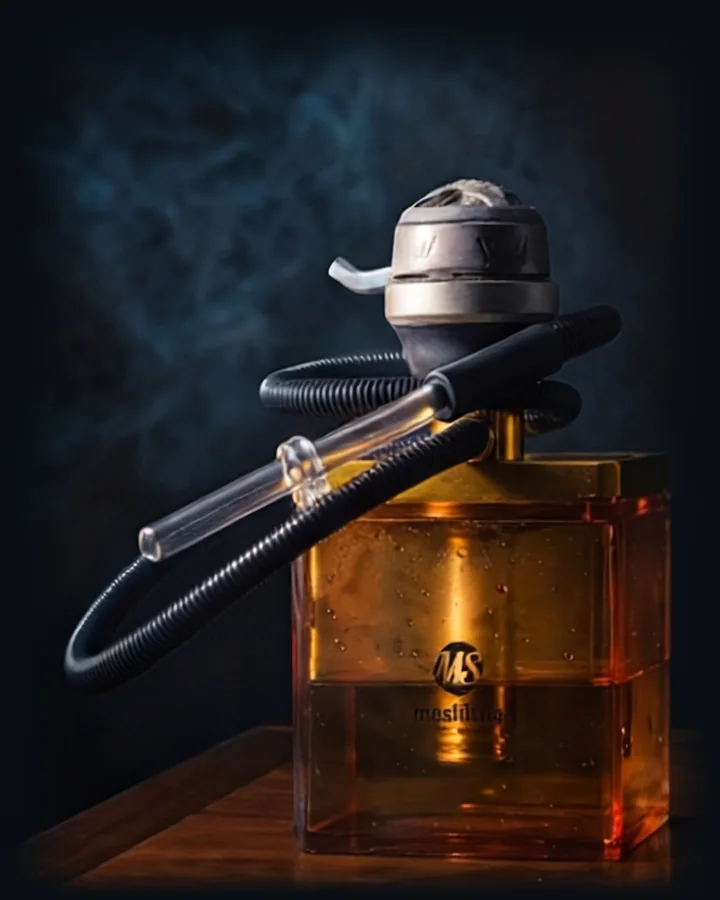
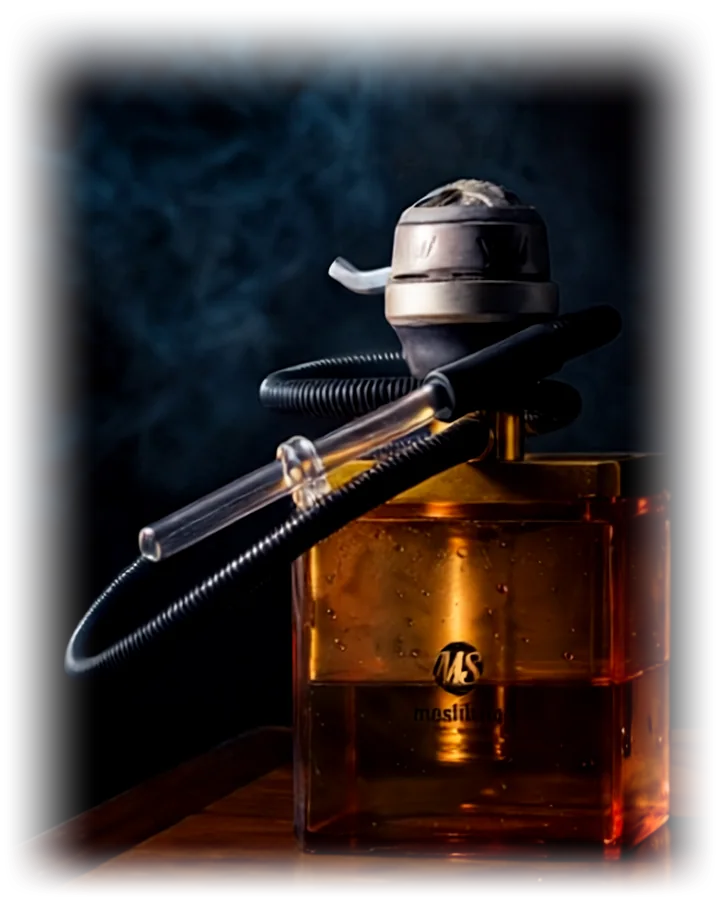
Shisha page: remove picture boxes, blend hookahs into the background
Claude-Session: https://claude.ai/code/session_01DEyqETpbM89WEQXKmL7KhX

diff --git a/shisha/index.html b/shisha/index.html
@@ -19,7 +19,7 @@
 <style>
 :root{--bg:#0E0C0B;--ink:#F1E9D8;--mut:#B9C9C8;--acc:#D6B46E;--line:rgba(255,255,255,.14);--ph:#091318}
 *{box-sizing:border-box;margin:0;padding:0}
-html{scroll-behavior:smooth}
+html{scroll-behavior:smooth;overflow-x:clip}
 body{position:relative;font-family:'Montserrat',sans-serif;background:var(--bg);color:var(--ink);-webkit-font-smoothing:antialiased}
 img{display:block;max-width:100%}
 a{color:inherit}a:focus-visible,button:focus-visible{outline:2px solid var(--acc);outline-offset:3px}
@@ -43,7 +43,6 @@ linear-gradient(180deg,#14110F 0%,#0E0C0B 45%,#0A0A0A 100%)}
 @keyframes wisp{0%{opacity:0;transform:translate3d(-4%,24%,0)}30%{opacity:.45}70%{opacity:.3}100%{opacity:0;transform:translate3d(5%,-18%,0)}}
 @media (max-width:760px){.smoke i:nth-child(3){display:none}}
 @media (prefers-reduced-motion:reduce){.smoke i,.ph::after{animation:none!important}.smoke i:nth-child(1){opacity:.25}.ph::after{opacity:0}}
-.ph{box-shadow:0 0 0 1px rgba(255,255,255,.07),0 40px 70px -40px rgba(0,0,0,.9)}
 .nav{display:flex;align-items:center;justify-content:space-between;gap:16px;padding:18px clamp(18px,4vw,44px);max-width:1180px;margin:0 auto}
 .brand{text-decoration:none;font-size:.78rem;letter-spacing:.24em;text-transform:uppercase;font-weight:600;color:#fff}
 .nav nav{display:flex;gap:clamp(14px,3vw,28px)}
@@ -53,8 +52,8 @@ linear-gradient(180deg,#14110F 0%,#0E0C0B 45%,#0A0A0A 100%)}
 h1{font-size:clamp(2.6rem,8vw,4.8rem);font-weight:600;line-height:1;color:#fff}
 .lede{margin-top:16px;color:var(--mut);font-size:.95rem;line-height:1.7;font-weight:300;max-width:500px}
 .intro{max-width:1180px;margin:0 auto;padding:clamp(20px,6vh,60px) clamp(20px,5vw,44px) 20px}
-.ph{background:var(--ph);overflow:hidden;border-radius:24px}
-.ph img{width:100%;height:100%;object-fit:cover;opacity:0;transition:opacity .9s ease}
+.ph{background:none;border-radius:0}
+.ph img{width:100%;height:100%;object-fit:cover;mix-blend-mode:screen;opacity:0;transition:opacity .9s ease}
 .ph img.ok{opacity:1}
 .rv{opacity:0;transform:translate3d(0,22px,0);transition:opacity .8s ease,transform .9s cubic-bezier(.22,1,.36,1)}
 .rv.in{opacity:1;transform:none}
@@ -89,11 +88,11 @@ h1{font-size:clamp(2.6rem,8vw,4.8rem);font-weight:600;line-height:1;color:#fff}
 <div class="nav"><a class="brand" href="/menu/">B-Heaven</a><nav><a href="/menu/">Menu</a><a href="/menu/#drinks">Drinks</a><a href="/shisha/" class="on" aria-current="page">Shisha</a></nav></div>
 <div class="intro"><span class="ey">B-Heaven by Barceló</span><h1>Shishas</h1><p class="lede">Rooftop shisha at Barceló Al Jaddaf — five hookahs, five ways to enjoy them.</p></div>
 <main class="cards">
-<article class="card"><div class="ph rv"><img src="/menu/img/shisha-1.webp" alt="Amber cube hookah" width="720" height="900" decoding="async"></div><div class="rv"><span class="no">01</span><div class="hd"><h2>Single shisha</h2><b>AED 65</b></div><p class="sub">Single flavours, with mint or without.</p><div class="shChips"><span>Double apple</span><span>Grape mint</span><span>Grape-berry</span><span>Grape</span><span>Lemon</span><span>Orange</span><span>Grapefruit</span><span>Fresh mist</span><span>Blueberry</span><span>Watermelon</span><span>Sweet melon</span><span>Pineapple</span><span>Gum</span><span>Bubble gum</span><span>Gum mastic</span><span>Strawberry</span><span>Mint</span><span>Coconut</span><span>Kiwi</span><span>Vanilla cherry</span><span>Peach</span><span>Mango</span><span>Gum cinnamon</span><span>Rose</span><span>Chocolate coffee</span><span>Energy drink</span><span>Banana</span></div></div></article>
-<article class="card"><div class="ph rv"><img src="/menu/img/shisha-2.webp" alt="Carbon fibre hookah" width="720" height="900" decoding="async"></div><div class="rv"><span class="no">02</span><div class="hd"><h2>Mix flavours</h2><b>AED 109</b></div><p class="sub">Blend of 2–3 flavours — make it your own.</p></div></article>
-<article class="card"><div class="ph rv"><img src="/menu/img/shisha-3.webp" alt="Hookah with wooden stem and lemon-mint base" width="720" height="900" decoding="async" loading="lazy"></div><div class="rv"><span class="no">03</span><div class="hd"><h2>Specials</h2><b>AED 139</b></div><p class="sub">Our signature blends.</p><ul class="lst"><li><strong>Mi Amor</strong><p>Crazy tropical mix of juicy pineapple, ripe banana, and refreshing mint</p></li><li><strong>Lady Killer</strong><p>Iced, minty tropical mango and sweet peach</p></li><li><strong>Love 66</strong><p>The golden recipe of all times in hookah with passion fruits, honeydew melon, watermelon, mint</p></li><li><strong>Marbella</strong><p>A delicious mix of cherry, caramel and chocolate</p></li><li><strong>Hawaii</strong><p>Juicy pineapple and sweet mango with mint</p></li><li><strong>Sky Fall</strong><p>Taste of sweet berries with refreshing lime</p></li><li><strong>Istanbul Night</strong><p>The mix of blueberries, raspberries, and currants</p></li></ul></div></article>
-<article class="card"><div class="ph rv"><img src="/menu/img/shisha-4.webp" alt="Silver hookah with blue crystal base" width="720" height="900" decoding="async" loading="lazy"></div><div class="rv"><span class="no">04</span><div class="hd"><h2>Nova cocktails · I</h2><b>AED 159</b></div><p class="sub">Cocktail-style blends, part one.</p><ul class="lst"><li><strong>Melon Honey</strong><p>Natural sweet melon taste with extra sweetness</p></li><li><strong>Tutti Frutti</strong><p>Mix of tropical fruits, topped with little bit of freshness</p></li><li><strong>Ice Baby</strong><p>Bright grapefruit meets wild berry sorbet, light, refreshing, and perfect for summer</p></li><li><strong>Strawberry Jam</strong><p>Strawberry jam with hint of berry flavour</p></li><li><strong>Lemon Shock</strong><p>Taste of ultra sour lemon</p></li></ul></div></article>
-<article class="card"><div class="ph rv"><img src="/menu/img/shisha-5.webp" alt="Black hookah with smoke" width="720" height="900" decoding="async" loading="lazy"></div><div class="rv"><span class="no">05</span><div class="hd"><h2>Nova cocktails · II</h2><b>AED 159</b></div><p class="sub">Cocktail-style blends, part two.</p><ul class="lst"><li><strong>Belgium Waffles</strong><p>Soft sponge cake with cinnamon, creamy soufflé and caramel topping</p></li><li><strong>Peach Killer</strong><p>A luxurious and full-bodied taste of sweet and delicate peach pulp</p></li><li><strong>Mango Tango</strong><p>Sweet mango with tropical passion fruit</p></li><li><strong>Pinkman</strong><p>A unique blend of pink grapefruit, strawberry, and raspberry — destined to be a favorite</p></li><li><strong>Cherry Garden</strong><p>Bold and tart natural cherries, sweet and sour, a flavor that easily becomes a favorite</p></li></ul></div></article>
+<article class="card"><div class="ph"><img src="/menu/img/shisha-1.webp" alt="Amber cube hookah" width="720" height="900" decoding="async"></div><div class="rv"><span class="no">01</span><div class="hd"><h2>Single shisha</h2><b>AED 65</b></div><p class="sub">Single flavours, with mint or without.</p><div class="shChips"><span>Double apple</span><span>Grape mint</span><span>Grape-berry</span><span>Grape</span><span>Lemon</span><span>Orange</span><span>Grapefruit</span><span>Fresh mist</span><span>Blueberry</span><span>Watermelon</span><span>Sweet melon</span><span>Pineapple</span><span>Gum</span><span>Bubble gum</span><span>Gum mastic</span><span>Strawberry</span><span>Mint</span><span>Coconut</span><span>Kiwi</span><span>Vanilla cherry</span><span>Peach</span><span>Mango</span><span>Gum cinnamon</span><span>Rose</span><span>Chocolate coffee</span><span>Energy drink</span><span>Banana</span></div></div></article>
+<article class="card"><div class="ph"><img src="/menu/img/shisha-2.webp" alt="Carbon fibre hookah" width="720" height="900" decoding="async"></div><div class="rv"><span class="no">02</span><div class="hd"><h2>Mix flavours</h2><b>AED 109</b></div><p class="sub">Blend of 2–3 flavours — make it your own.</p></div></article>
+<article class="card"><div class="ph"><img src="/menu/img/shisha-3.webp" alt="Hookah with wooden stem and lemon-mint base" width="720" height="900" decoding="async" loading="lazy"></div><div class="rv"><span class="no">03</span><div class="hd"><h2>Specials</h2><b>AED 139</b></div><p class="sub">Our signature blends.</p><ul class="lst"><li><strong>Mi Amor</strong><p>Crazy tropical mix of juicy pineapple, ripe banana, and refreshing mint</p></li><li><strong>Lady Killer</strong><p>Iced, minty tropical mango and sweet peach</p></li><li><strong>Love 66</strong><p>The golden recipe of all times in hookah with passion fruits, honeydew melon, watermelon, mint</p></li><li><strong>Marbella</strong><p>A delicious mix of cherry, caramel and chocolate</p></li><li><strong>Hawaii</strong><p>Juicy pineapple and sweet mango with mint</p></li><li><strong>Sky Fall</strong><p>Taste of sweet berries with refreshing lime</p></li><li><strong>Istanbul Night</strong><p>The mix of blueberries, raspberries, and currants</p></li></ul></div></article>
+<article class="card"><div class="ph"><img src="/menu/img/shisha-4.webp" alt="Silver hookah with blue crystal base" width="720" height="900" decoding="async" loading="lazy"></div><div class="rv"><span class="no">04</span><div class="hd"><h2>Nova cocktails · I</h2><b>AED 159</b></div><p class="sub">Cocktail-style blends, part one.</p><ul class="lst"><li><strong>Melon Honey</strong><p>Natural sweet melon taste with extra sweetness</p></li><li><strong>Tutti Frutti</strong><p>Mix of tropical fruits, topped with little bit of freshness</p></li><li><strong>Ice Baby</strong><p>Bright grapefruit meets wild berry sorbet, light, refreshing, and perfect for summer</p></li><li><strong>Strawberry Jam</strong><p>Strawberry jam with hint of berry flavour</p></li><li><strong>Lemon Shock</strong><p>Taste of ultra sour lemon</p></li></ul></div></article>
+<article class="card"><div class="ph"><img src="/menu/img/shisha-5.webp" alt="Black hookah with smoke" width="720" height="900" decoding="async" loading="lazy"></div><div class="rv"><span class="no">05</span><div class="hd"><h2>Nova cocktails · II</h2><b>AED 159</b></div><p class="sub">Cocktail-style blends, part two.</p><ul class="lst"><li><strong>Belgium Waffles</strong><p>Soft sponge cake with cinnamon, creamy soufflé and caramel topping</p></li><li><strong>Peach Killer</strong><p>A luxurious and full-bodied taste of sweet and delicate peach pulp</p></li><li><strong>Mango Tango</strong><p>Sweet mango with tropical passion fruit</p></li><li><strong>Pinkman</strong><p>A unique blend of pink grapefruit, strawberry, and raspberry — destined to be a favorite</p></li><li><strong>Cherry Garden</strong><p>Bold and tart natural cherries, sweet and sour, a flavor that easily becomes a favorite</p></li></ul></div></article>
 </main>
 <div class="foot rv"><p class="shNote">All prices are in Dirhams &amp; inclusive of 10% service charge, 7% municipality fee and 5% VAT.</p><a class="shCta" href="https://api.whatsapp.com/send/?phone=971506129150&amp;text=Hi%20B-Heaven%2C%20I%27d%20like%20to%20book%20a%20table" target="_blank" rel="noopener">Book on WhatsApp</a><a class="back" href="/menu/">← Back to menu</a></div>
 <script>
